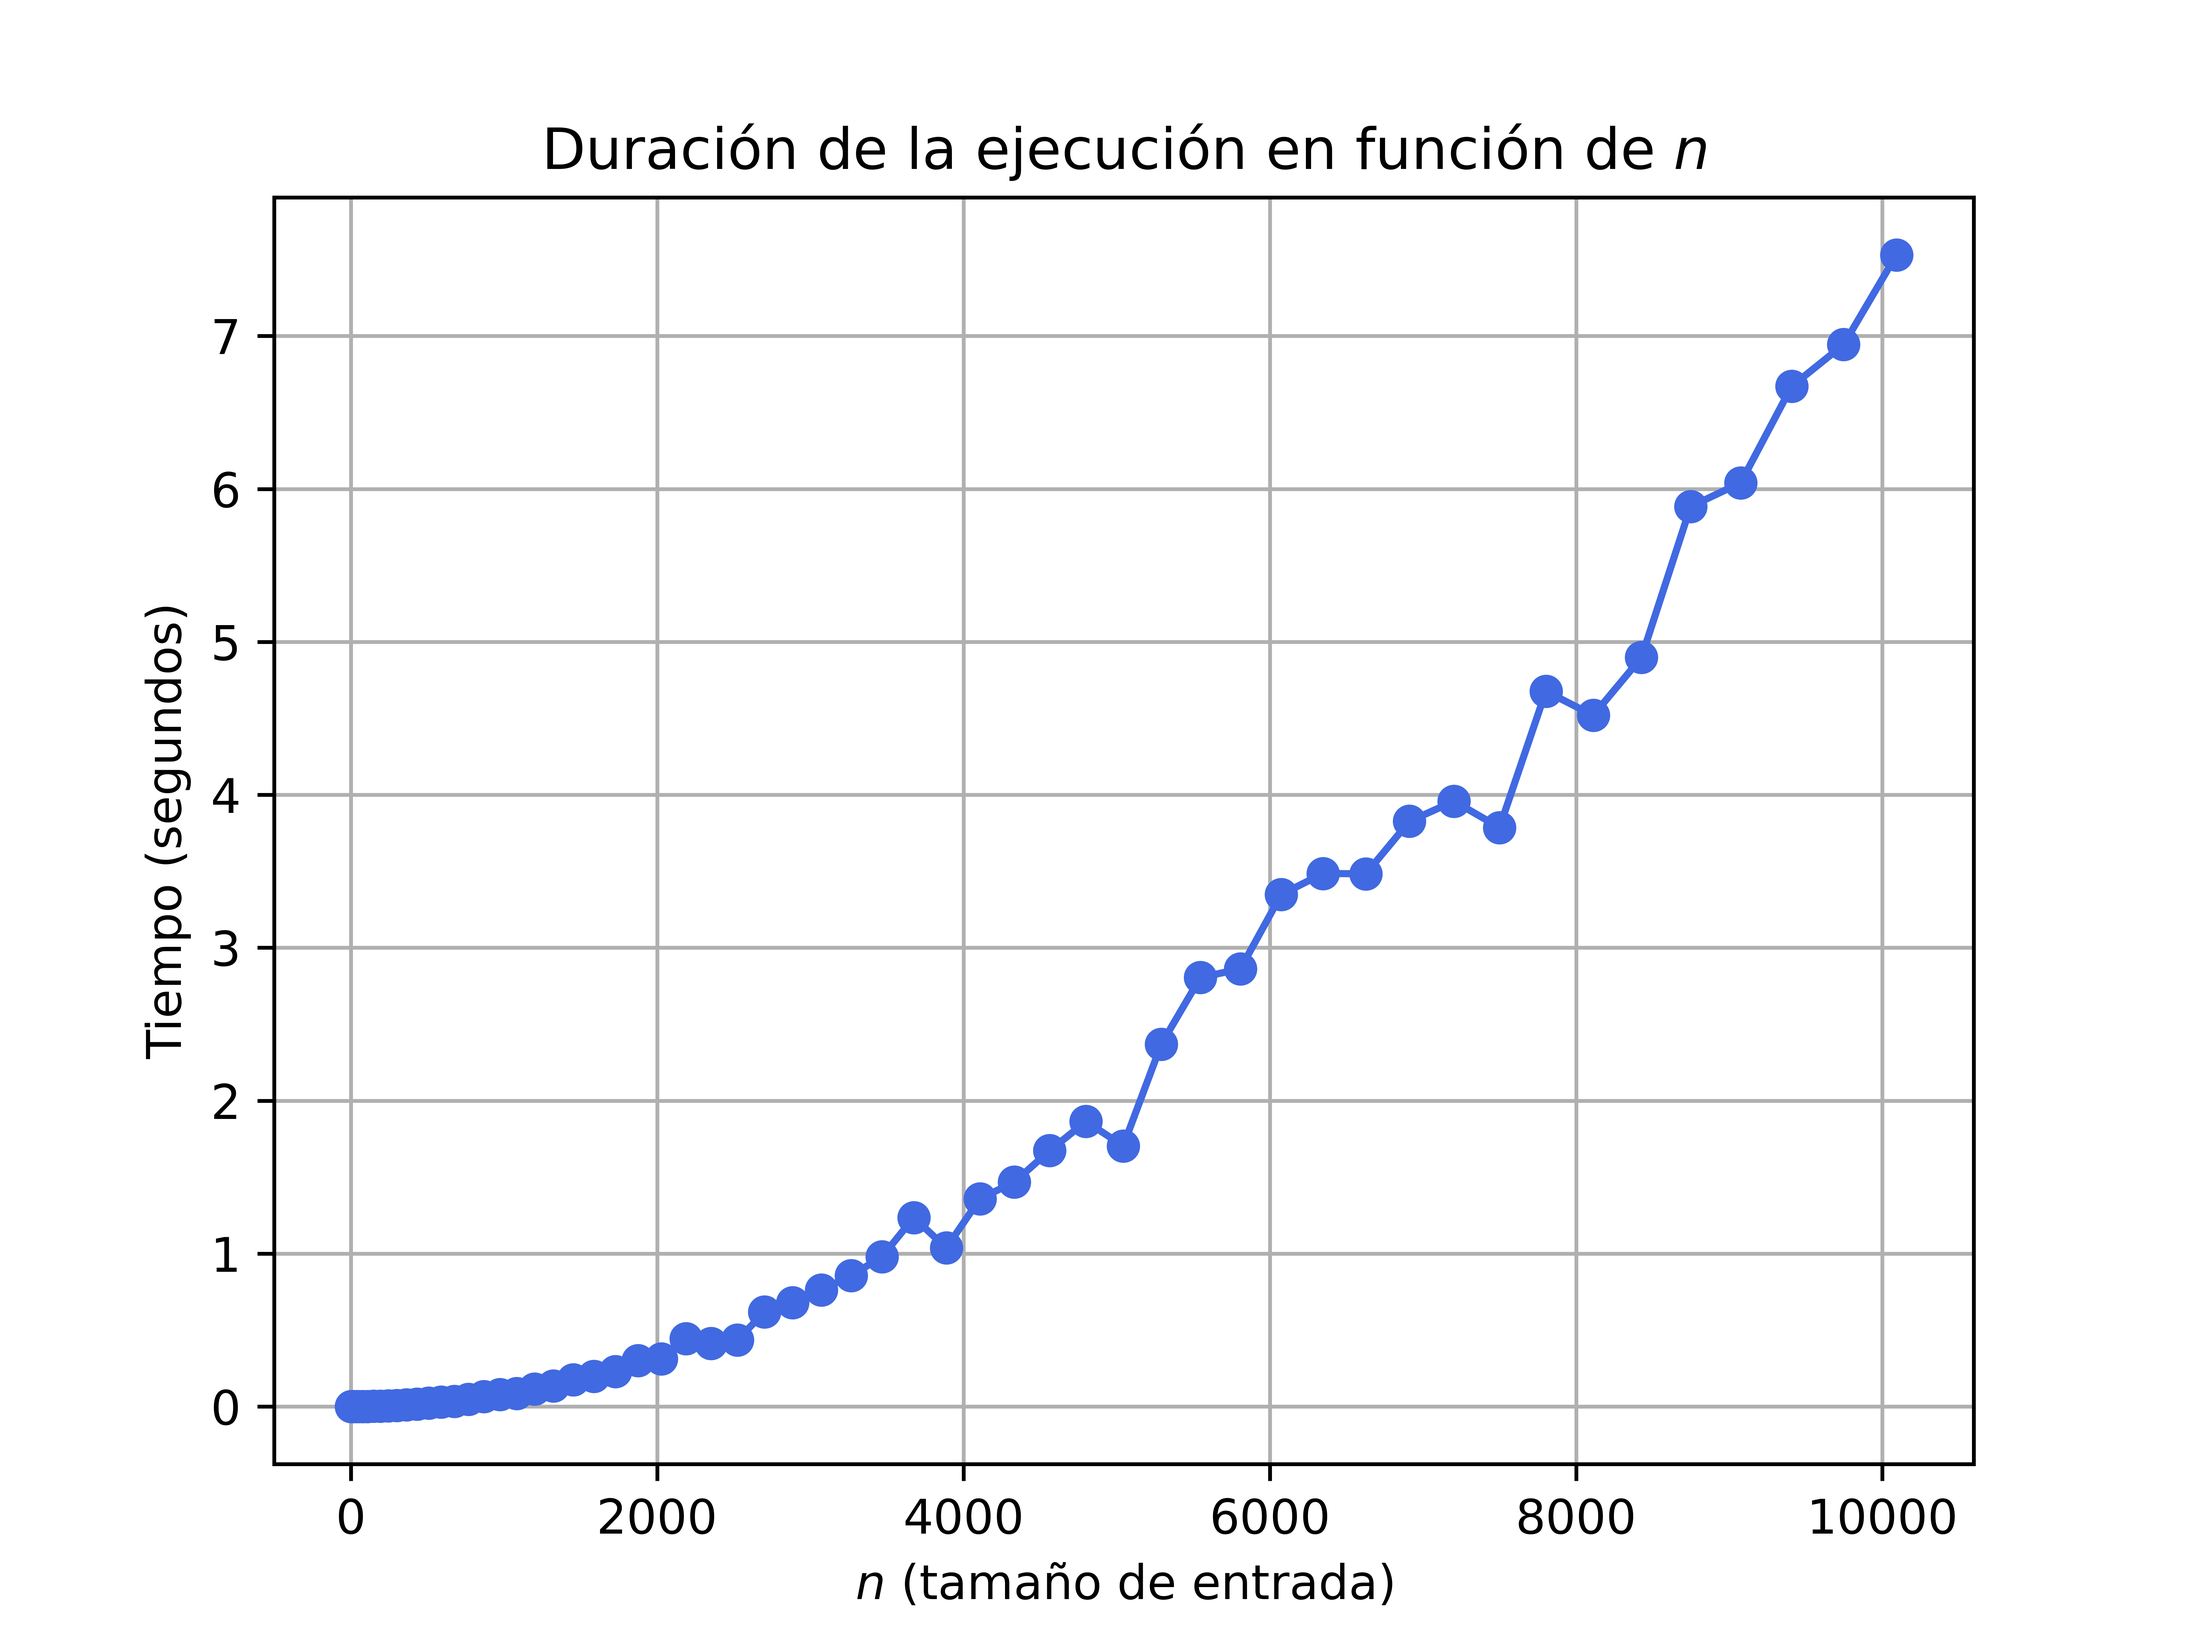
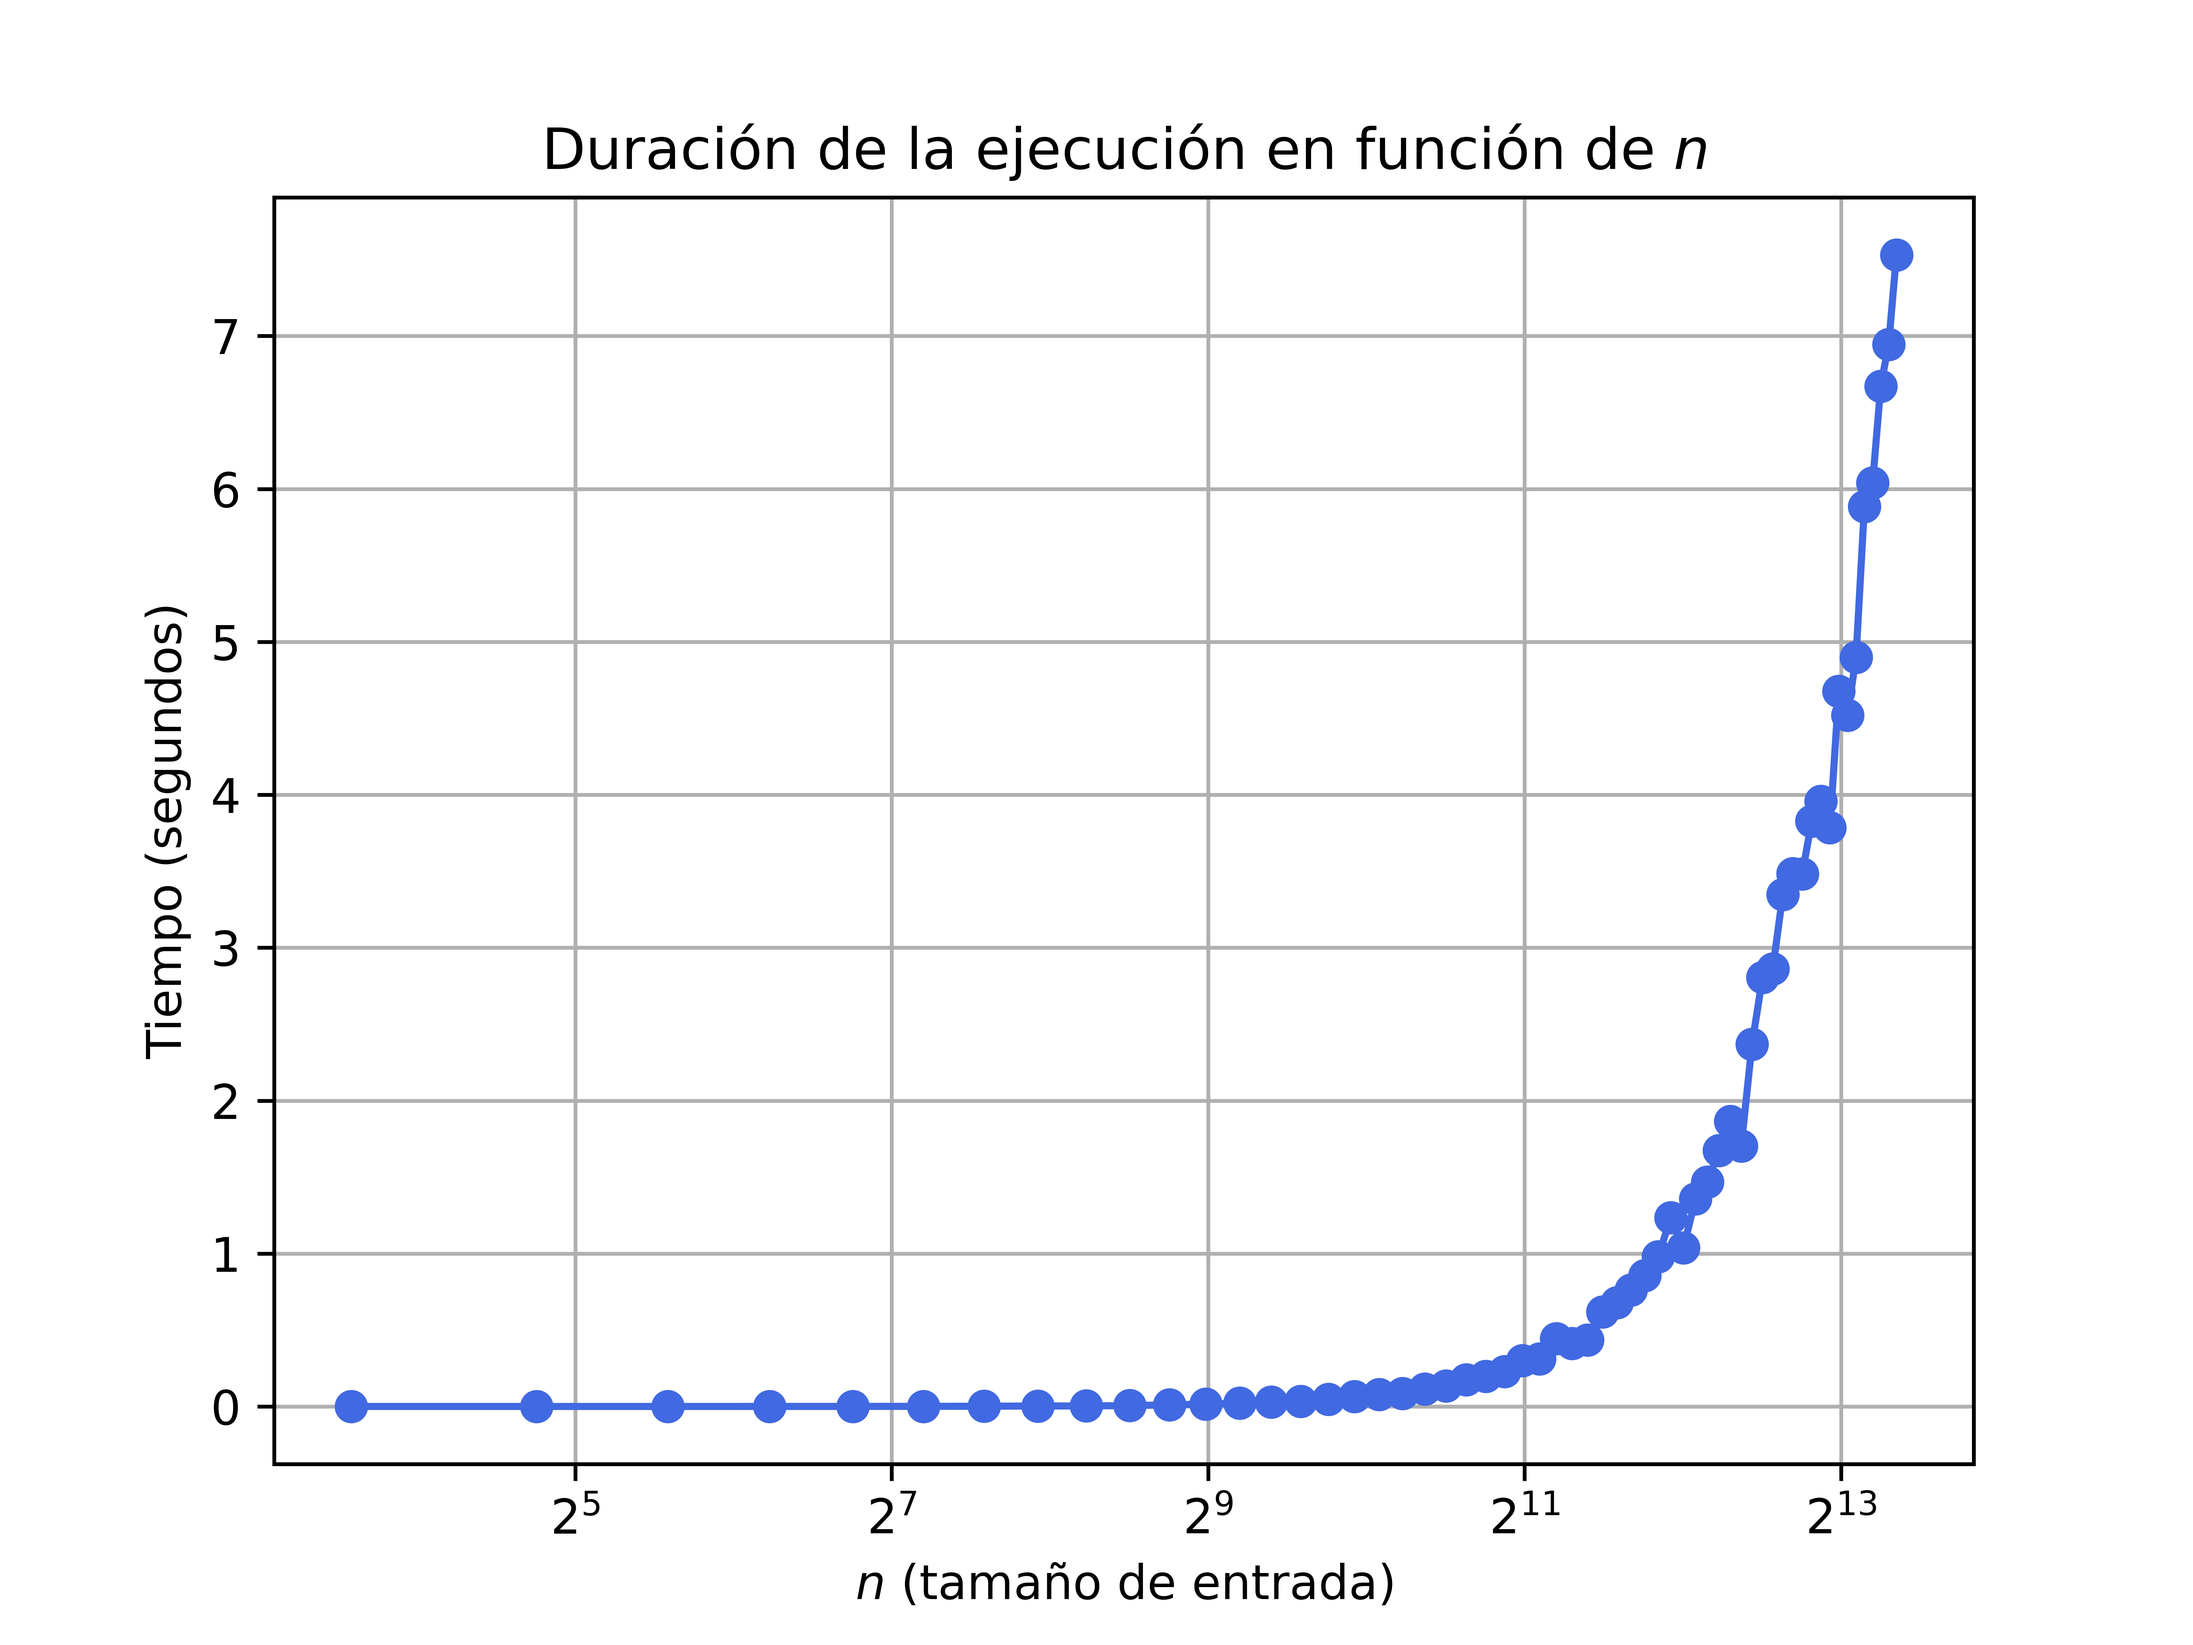
images graphs for data experimental process

diff --git a/stableMatching/stableMatching.py b/stableMatching/stableMatching.py
@@ -64,23 +64,23 @@ def graphComplex(pathDocValues):
 
     # Leer los datos desde el archivo de texto
     with open(pathDocValues, 'r') as file:
-        for i, line in enumerate(file, start=1):
+        for i, line in enumerate(file, start=2):
             tiempo = float(line.strip())
-            n_values.append((i ** 2)*3)  # Asumimos que n es 2^i
+            n_values.append((i ** 2)*3)
             tiempo_values.append(tiempo)
     # Graficar los datos
-    plt.plot(n_values, tiempo_values, marker='o', linestyle='-', color='royalblue')
-    plt.title('Duración de la ejecución en función de $n$')
+    plt.plot(n_values, tiempo_values, marker='o', linestyle='-', color='lightcoral')
+    #plt.title('Duración de la ejecución en función de $n$')
     plt.xlabel('$n$ (tamaño de entrada)')
     plt.ylabel('Tiempo (segundos)')
     #plt.title('Duración de la generación de datos de entrada en función de $n$')
-    #plt.title('Duración de la impresión del emparejamiento en función de $n$')
+    plt.title('Duración de la impresión del emparejamiento en función de $n$')
 
-    #plt.xscale('log', base=2)
+    plt.xscale('log', base=2)
     #plt.yscale('log')
     #plt.grid(True, which="both", ls="--")
     plt.grid(True)
-    plt.savefig("execution.png", dpi=1000)
+    plt.savefig("print.png", dpi=1000)
     plt.show()
 
 
@@ -110,6 +110,6 @@ if __name__ == "__main__":
             file.write(f"{execution_time:.8f}\n")
         with open("print_times.txt", "a") as file:
             file.write(f"{print_time:.8f}\n")'''
-    graphComplex('execution_times.txt')
+    #graphComplex('execution_times.txt')
     #graphComplex('generation_times.txt')
-    #graphComplex('print_times.txt')
+    graphComplex('print_times.txt')
